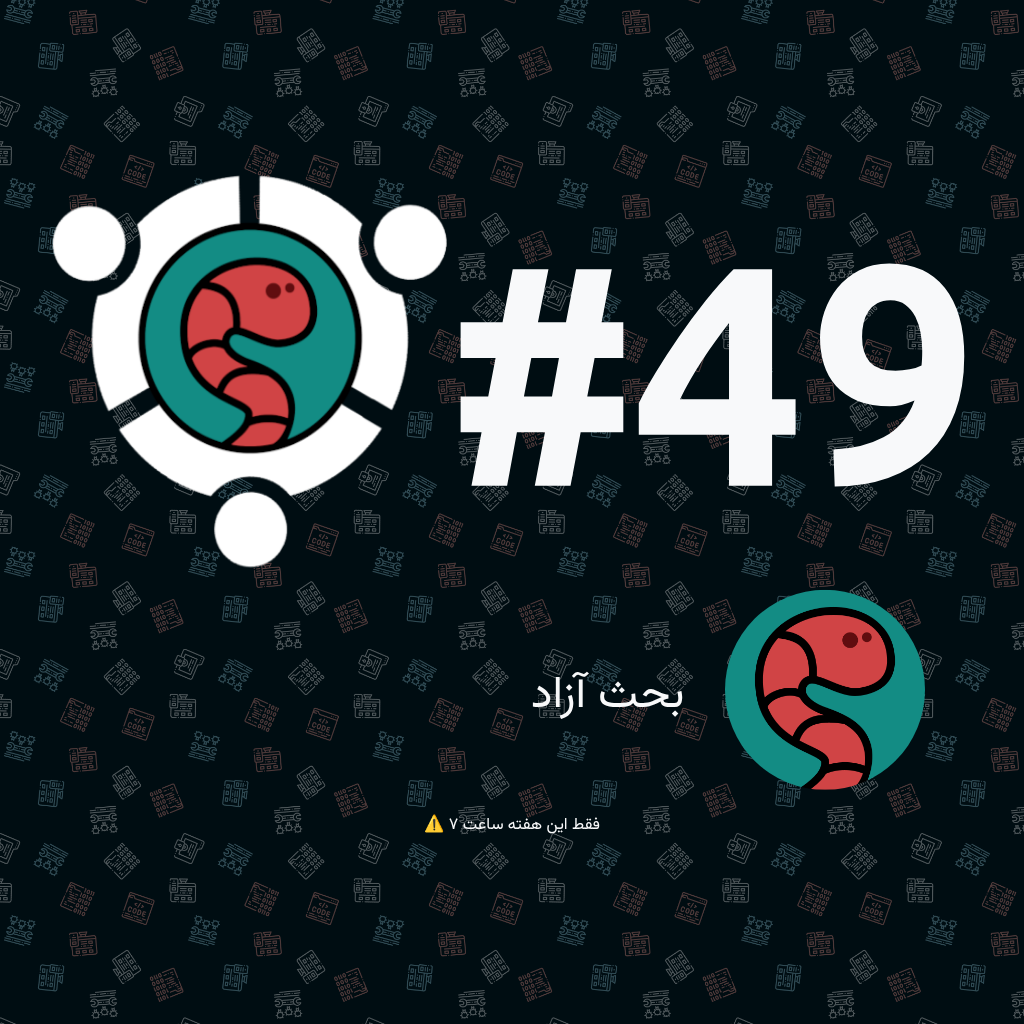
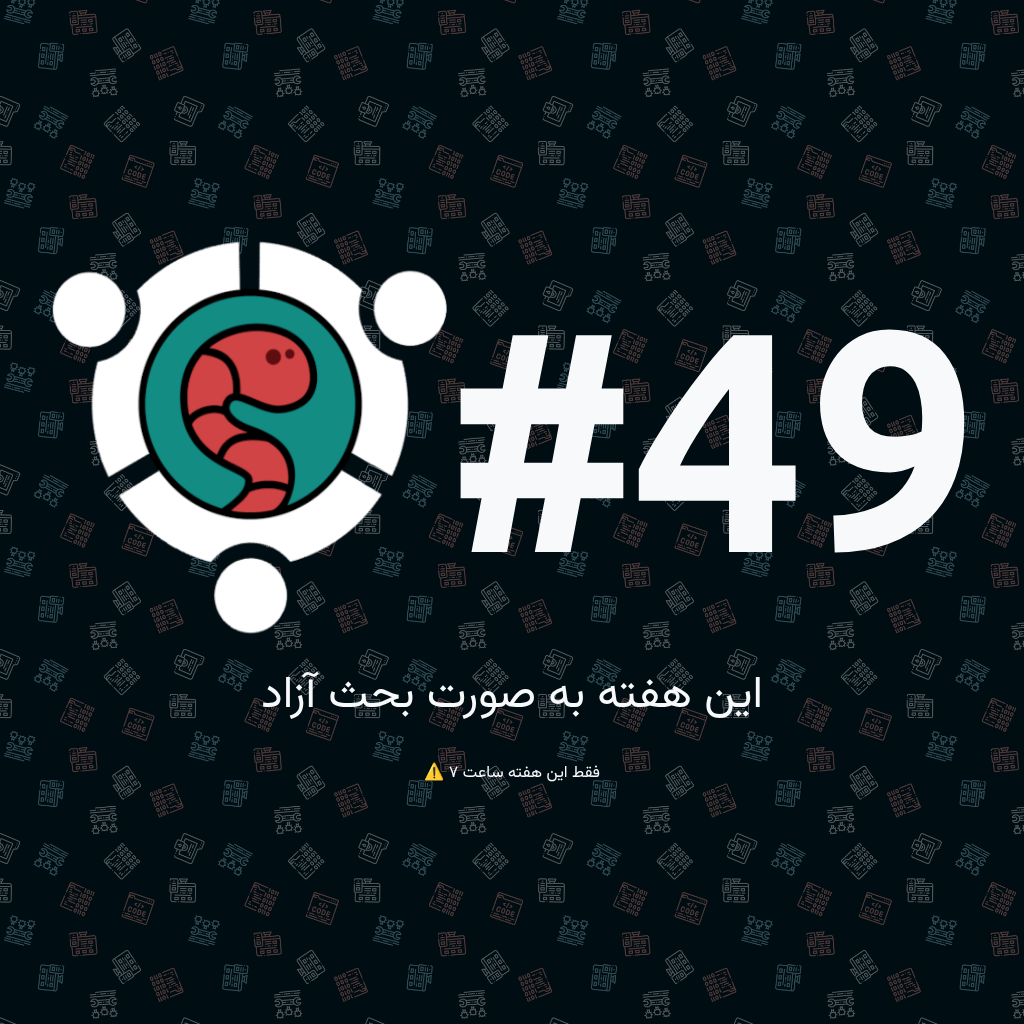
deploy: 05de772a645cf2f6fdb75681b7ebaa347bb7cd32

Changed region(s): [[0.0312, 0.1562, 0.9688, 0.7812], [0.4062, 0.75, 0.5938, 0.8125]]

diff --git a/49/index.html b/49/index.html
@@ -4,8 +4,8 @@
 <head>
     <meta charset="UTF-8">
     <meta name="viewport" content="width=device-width, initial-scale=1.0">
-        <meta property="og:title" content="دورهمی #49 کرمهای کامپیوتر - بحث آزاد" />
-            <meta name="og:description" content="دورهمی #49 کرمهای کامپیوتر فقط این هفته ساعت ۷  دربارهٔ بحث آزاد با ارائهٔ کرمهایکامپیوتر"/>
+        <meta property="og:title" content="دورهمی #49 کرمهای کامپیوتر" />
+            <meta name="og:description" content="دورهمی #49 کرمهای کامپیوتر فقط این هفته ساعت ۷ "/>
     <meta property="og:url" content="https://meet.pcworms.ir" />
     <meta property="og:image" content="./preview.png" />
     <title>دورهمیهای کرمهای کامپیوتر</title>
@@ -91,19 +91,9 @@
                 <small>⚠ فقط این هفته ساعت ۷</small>
             </div>
         </div>
-        <div class="row justify-content-center">
-            <div class="col-12 col-sm-10 col-md-8 p-2 subject-bg">
-                <div class=" row align-items-center">
-                    <div class="col-auto float-start text-center"><img src="assets&#x2F;avatars&#x2F;pcworms.png" class="profile"></div>
-                    <div class="col">
-                        <small class="speaker d-block">
-                            کرمهایکامپیوتر:
-                        </small>
-                        <h2 class="subject">بحث آزاد</h2>
-                        <div class="text-center">
-                            <small class="time" id="counter"></small>
-                        </div>
-                    </div>
+            <div class="row justify-content-center text-center">
+                <div class="text-center">
+                    <small id="counter"></small>
                 </div>
             </div>
             <div class="text-center">

diff --git a/index.html b/index.html
@@ -4,8 +4,8 @@
 <head>
     <meta charset="UTF-8">
     <meta name="viewport" content="width=device-width, initial-scale=1.0">
-        <meta property="og:title" content="دورهمی #49 کرمهای کامپیوتر - بحث آزاد" />
-            <meta name="og:description" content="دورهمی #49 کرمهای کامپیوتر فقط این هفته ساعت ۷  دربارهٔ بحث آزاد با ارائهٔ کرمهایکامپیوتر"/>
+        <meta property="og:title" content="دورهمی #49 کرمهای کامپیوتر" />
+            <meta name="og:description" content="دورهمی #49 کرمهای کامپیوتر فقط این هفته ساعت ۷ "/>
     <meta property="og:url" content="https://meet.pcworms.ir" />
     <meta property="og:image" content="./preview.png" />
     <title>دورهمیهای کرمهای کامپیوتر</title>
@@ -91,19 +91,9 @@
                 <small>⚠ فقط این هفته ساعت ۷</small>
             </div>
         </div>
-        <div class="row justify-content-center">
-            <div class="col-12 col-sm-10 col-md-8 p-2 subject-bg">
-                <div class=" row align-items-center">
-                    <div class="col-auto float-start text-center"><img src="assets&#x2F;avatars&#x2F;pcworms.png" class="profile"></div>
-                    <div class="col">
-                        <small class="speaker d-block">
-                            کرمهایکامپیوتر:
-                        </small>
-                        <h2 class="subject">بحث آزاد</h2>
-                        <div class="text-center">
-                            <small class="time" id="counter"></small>
-                        </div>
-                    </div>
+            <div class="row justify-content-center text-center">
+                <div class="text-center">
+                    <small id="counter"></small>
                 </div>
             </div>
             <div class="text-center">

diff --git a/49/preview.html b/49/preview.html
@@ -25,12 +25,9 @@
             </div>
         </div>
         <div class="row justify-content-center">
-                <div class="col-12 col-md-10 p-2"">
-                    <div class=" row align-items-center">
-                    <div class="col">
-                        <h2 class="subject" dir="rtl">بحث آزاد</h2>
-                    </div>
-                    <div class="col-auto float-start text-center"><img src="assets&#x2F;avatars&#x2F;pcworms.png" class="profile"></div>
+                <div class="col-12 p-2 text-center">
+                    <h2 class="subject" dir="rtl">این هفته به صورت بحث آزاد</h2>
+                </div>
         </div>
         <div class="row justify-content-center">
             <div class="col-12 p-2 text-center">

diff --git a/preview.html b/preview.html
@@ -25,12 +25,9 @@
             </div>
         </div>
         <div class="row justify-content-center">
-                <div class="col-12 col-md-10 p-2"">
-                    <div class=" row align-items-center">
-                    <div class="col">
-                        <h2 class="subject" dir="rtl">بحث آزاد</h2>
-                    </div>
-                    <div class="col-auto float-start text-center"><img src="assets&#x2F;avatars&#x2F;pcworms.png" class="profile"></div>
+                <div class="col-12 p-2 text-center">
+                    <h2 class="subject" dir="rtl">این هفته به صورت بحث آزاد</h2>
+                </div>
         </div>
         <div class="row justify-content-center">
             <div class="col-12 p-2 text-center">
